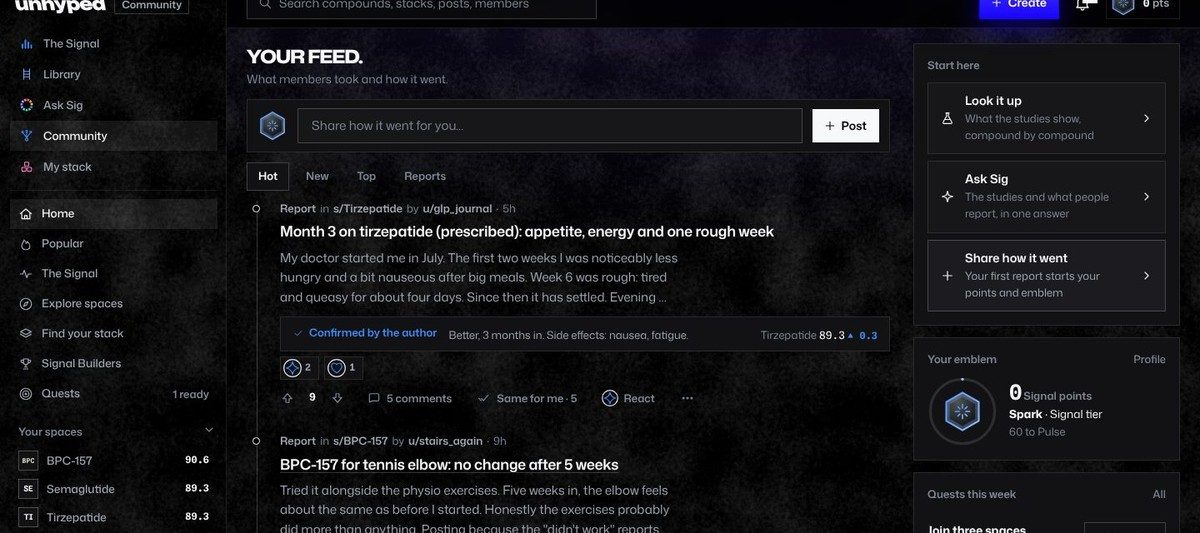
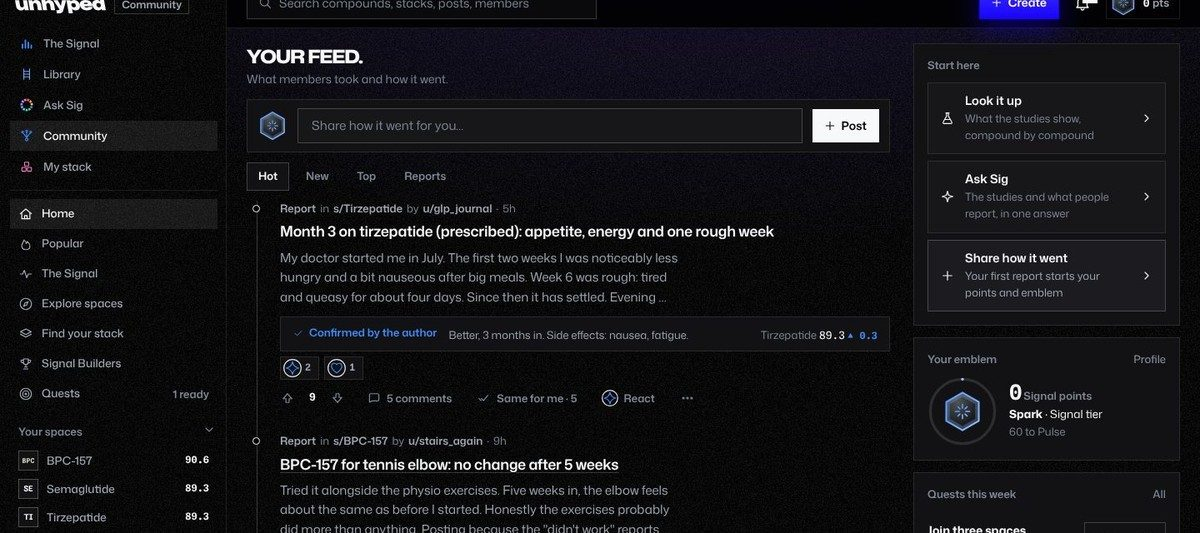
The community's ground: grain, the owner's pick
The owner picked option 1 of the three textures tried: fine grain, not
felt. The ground is now a seamless 256px grayscale tile of one-pixel
grain (web/img/ground.png, 39 KB, about 3% light on black), drawn by
scripts/draw_ground.py, under the same soft light from the top.

Claude-Session: https://claude.ai/code/session_01L1dqBz7CyYyjJK7ktWLtFo

Changed region(s): [[0.2775, 0.5103, 0.3083, 0.5403], [0.2775, 0.3902, 0.3083, 0.4203], [0.0308, 0.3002, 0.0617, 0.3302]]

diff --git a/web/styles.css b/web/styles.css
@@ -135,17 +135,17 @@ img,svg{flex:none}
 
 /* ---------------------------------------------------------------- layout */
 .os{display:grid;grid-template-columns:minmax(0,1fr);min-height:100dvh}
-/* The community's ground is cosy (the owner, November 23): soft felt on black (img/ground.jpg, drawn by
+/* The community's ground is cosy (the owner, November 23): fine grain on black (img/ground.png, drawn by
    scripts/draw_ground.py), under a soft ultramarine light from the top that warms into violet. It runs
    under the docked side panel and the foot too, so the page is one surface */
-.win{position:relative;display:flex;flex-direction:column;min-width:0;min-height:100dvh;margin:0;background:radial-gradient(120% 760px at 50% -220px,rgba(26,4,255,.24) 0%,rgba(107,72,241,.10) 40%,rgba(0,0,0,0) 72%),url(img/ground.jpg) 0 0/512px 512px,var(--os-win)}
+.win{position:relative;display:flex;flex-direction:column;min-width:0;min-height:100dvh;margin:0;background:radial-gradient(120% 760px at 50% -220px,rgba(26,4,255,.24) 0%,rgba(107,72,241,.10) 40%,rgba(0,0,0,0) 72%),url(img/ground.png) 0 0/256px 256px,var(--os-win)}
 .layout{flex:1 0 auto;display:grid;grid-template-columns:minmax(0,1fr) var(--rail-w);grid-template-areas:'main rail';gap:28px;padding:0 24px 56px}
 /* the side panel: the logo, Unhyped's places (the Signal first, then the design kit's bar,
    standing up, each with its mark), then the community's menu, then the rules and the legal. It is
    never taken away: open beside the page from 1280px wide, and below that a drawer the menu
    button slides in, with its own button to close it, as on miraclehealth.us. */
 .side{position:sticky;top:0;z-index:31;display:flex;flex-direction:column;height:100dvh;padding:10px 10px 12px 12px;border-right:1px solid rgba(255,255,255,.09);background:var(--os-side);color:var(--text);overflow:hidden}
-@media (min-width:1280px){.side{background:url(img/ground.jpg) 0 0/512px 512px,var(--os-side)}}
+@media (min-width:1280px){.side{background:url(img/ground.png) 0 0/256px 256px,var(--os-side)}}
 .side-head{display:flex;align-items:center;flex:none;height:44px;padding:0 0 0 6px}
 @media (min-width:1280px){
   .os{grid-template-columns:var(--side-w) minmax(0,1fr)}

diff --git a/scripts/draw_ground.py b/scripts/draw_ground.py
@@ -1,23 +1,18 @@
-# The community's ground: soft felt, drawn on black (the owner, November 23: "can the community page
-# background be a cosy texture?"). Soft clouds you'd feel under a hand, a fibre in them and a fine
-# grain, seamless (blurred with wrap-around), as a 512px grayscale tile of about 25 KB.
-# Usage: python3 scripts/draw_ground.py   (writes web/img/ground.jpg)
+# The community's ground: fine grain on black (the owner, November 23: "can the community page
+# background be a cosy texture?", then option 1, grain, of the three tried: grain, felt and linen).
+# One-pixel grain, about 3% light on average with a 2.2% spread, as a seamless 256px grayscale tile
+# (random grain tiles without a seam). Change the two numbers below to make it lighter or stronger.
+# Usage: python3 scripts/draw_ground.py   (writes web/img/ground.png)
+import os
 import numpy as np
 from PIL import Image
-import os
+
+MEAN, SPREAD = 0.032, 0.022
 rng = np.random.default_rng(23)
-def periodic_blur(a, sx, sy):
-    h, w = a.shape
-    fy = np.fft.fftfreq(h)[:, None]; fx = np.fft.fftfreq(w)[None, :]
-    return np.real(np.fft.ifft2(np.fft.fft2(a) * np.exp(-2 * np.pi**2 * ((fx * sx)**2 + (fy * sy)**2))))
-def norm(a): a = a - a.mean(); return a / (a.std() + 1e-9)
-M = 512
-clouds = norm(periodic_blur(rng.standard_normal((M, M)), 14, 14))
-fibre = norm(periodic_blur(rng.standard_normal((M, M)), 1.2, 1.2))
-fine = norm(rng.standard_normal((M, M)))
-mu, c, f, g = 0.036, 0.022, 0.014, 0.010          # the grain's light on black: about 4% on average
-a = np.clip(mu + c * clouds + f * fibre + g * fine, 0, 1)
-v = np.round(a * 255).astype(np.uint8)
-out = os.path.join(os.path.dirname(__file__), '..', 'web', 'img', 'ground.jpg')
-Image.fromarray(v, 'L').save(out, quality=82, optimize=True, progressive=True)
+g = rng.standard_normal((256, 256))
+g = (g - g.mean()) / g.std()
+v = np.round(np.clip(MEAN + SPREAD * g, 0, 1) * 255).astype(np.uint8)
+out = os.path.join(os.path.dirname(__file__), '..', 'web', 'img', 'ground.png')
+os.makedirs(os.path.dirname(out), exist_ok=True)
+Image.fromarray(v, 'L').save(out, optimize=True)
 print('wrote', os.path.normpath(out), os.path.getsize(out), 'bytes')
